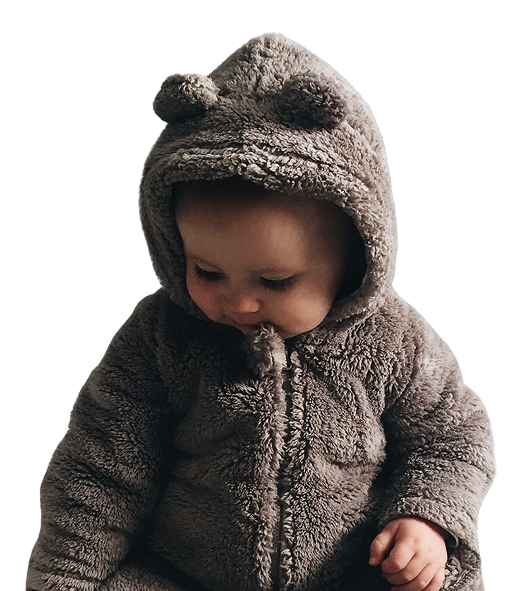
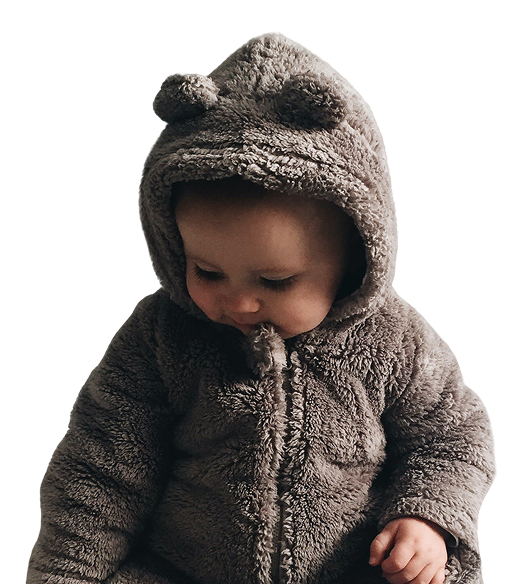
fix promotion

diff --git a/css/index.css b/css/index.css
@@ -1,1 +1,1 @@
-*,*::after,*::before{-webkit-box-sizing:border-box;box-sizing:border-box}body{overflow-x:hidden}a{text-decoration:none;-webkit-transition:.3s;transition:.3s}a:hover{opacity:80%}li{list-style:none}button{padding:0;background:none;border:none;cursor:pointer}img{max-width:100%}.section{margin-bottom:120px}.section__title{margin:0;font-family:"Balsamiq Sans",sans-serif;font-weight:400;font-size:16px;line-height:22px;color:#446B80;font-size:80px;line-height:88px}.container{max-width:1496px;width:100%;display:-webkit-box;display:-ms-flexbox;display:flex;margin:0 auto;padding:0 20px}.button{background-color:#7FC9F0;border:none;border-radius:12px;display:-webkit-box;display:-ms-flexbox;display:flex;-webkit-box-align:center;-ms-flex-align:center;align-items:center;-webkit-box-pack:center;-ms-flex-pack:center;justify-content:center;padding:0;font-family:"Montserrat",sans-serif;font-optical-sizing:auto;font-style:normal;font-weight:400;line-height:100%;font-size:18px;color:#fff;letter-spacing:.05em;line-height:24px;cursor:pointer;outline:none;-webkit-transition:.3s;transition:.3s}.button:hover{opacity:90%}.header{padding-top:17px;width:100%;background-color:rgba(236,199,193,0.16)}.header__top{width:100%;border-bottom:1px solid rgba(34,53,64,0.08)}.header-top{width:100%;display:-webkit-box;display:-ms-flexbox;display:flex;-webkit-box-align:center;-ms-flex-align:center;align-items:center;padding-bottom:15px;position:relative}.header-bottom{width:100%;padding:16px 0;display:-webkit-box;display:-ms-flexbox;display:flex;-webkit-box-pack:justify;-ms-flex-pack:justify;justify-content:space-between;-webkit-box-align:center;-ms-flex-align:center;align-items:center}.header__logo{margin-right:44px}.header__link{font-family:"Montserrat",sans-serif;font-optical-sizing:auto;font-style:normal;font-weight:400;line-height:100%;font-size:18px;color:#446B80;letter-spacing:.05em;line-height:24px;display:-webkit-box;display:-ms-flexbox;display:flex;-webkit-box-align:center;-ms-flex-align:center;align-items:center}.header__link::before{content:"";display:inline-block;width:24px;height:24px;background-repeat:no-repeat;background-size:cover;margin-right:12px}.header__catalog-btn{margin-right:24px}.header__autorization-link{margin-right:80px;margin-left:auto}.catalog-btn{width:223px;height:48px;gap:11px}.catalog-btn_open::after{content:"";display:inline-block;width:24px;height:24px;background-image:url(../images/catalog-btn_open.svg);background-repeat:no-repeat;background-size:cover}.catalog-btn_close{background-color:#446B80}.catalog-btn_close::after{content:"";display:inline-block;width:24px;height:24px;background-image:url(../images/catalog-btn_close.svg);translate:.3s;background-repeat:no-repeat;background-size:cover}.catalog-btn_close:hover::after{-webkit-transform:rotate(45deg);transform:rotate(45deg)}.catalog-btn-bottom{display:-webkit-box;display:-ms-flexbox;display:flex}.search{display:-webkit-box;display:-ms-flexbox;display:flex;height:48px;max-width:470px;width:100%}.search input{border:none;outline:none;background-color:rgba(34,53,64,0);-webkit-box-flex:1;-ms-flex-positive:1;flex-grow:1;padding:0 24px 0 0;font-family:"Montserrat",sans-serif;font-optical-sizing:auto;font-style:normal;font-weight:400;line-height:100%;font-size:18px;color:#446B80;letter-spacing:.05em}.search input::-webkit-input-placeholder{font-family:"Montserrat",sans-serif;font-optical-sizing:auto;font-style:normal;font-weight:400;line-height:100%;font-size:18px;color:#446B80;letter-spacing:.05em;line-height:24px;opacity:64%}.search input:-ms-input-placeholder{font-family:"Montserrat",sans-serif;font-optical-sizing:auto;font-style:normal;font-weight:400;line-height:100%;font-size:18px;color:#446B80;letter-spacing:.05em;line-height:24px;opacity:64%}.search input::-ms-input-placeholder{font-family:"Montserrat",sans-serif;font-optical-sizing:auto;font-style:normal;font-weight:400;line-height:100%;font-size:18px;color:#446B80;letter-spacing:.05em;line-height:24px;opacity:64%}.search input::placeholder{font-family:"Montserrat",sans-serif;font-optical-sizing:auto;font-style:normal;font-weight:400;line-height:100%;font-size:18px;color:#446B80;letter-spacing:.05em;line-height:24px;opacity:64%}.search__input{display:-webkit-box;display:-ms-flexbox;display:flex;-webkit-box-align:center;-ms-flex-align:center;align-items:center;border-radius:12px;border-top-right-radius:0;border-bottom-right-radius:0;-webkit-box-flex:1;-ms-flex-positive:1;flex-grow:1;background-color:rgba(34,53,64,0.04)}.search__img{width:24px;height:24px;margin:0 24px}.search__btn{border-top-left-radius:0;border-bottom-left-radius:0;width:108px}.autorization-link::before{background-image:url(../images/autorization-link.svg)}.basket-link::before{background-image:url(../images/basket.svg)}.title{font-family:"Balsamiq Sans",sans-serif;font-weight:400;font-size:16px;line-height:22px;color:#446B80;letter-spacing:.02em;max-width:164px}.nav__list{display:-webkit-box;display:-ms-flexbox;display:flex;gap:40px}.nav__link{font-family:"Montserrat",sans-serif;font-optical-sizing:auto;font-style:normal;font-weight:400;line-height:100%;font-size:18px;color:#446B80;letter-spacing:.05em}.location{font-family:"Montserrat",sans-serif;font-optical-sizing:auto;font-style:normal;font-weight:400;line-height:100%;font-size:18px;color:#446B80;letter-spacing:.05em;display:-webkit-box;display:-ms-flexbox;display:flex;-webkit-box-align:center;-ms-flex-align:center;align-items:center;line-height:24px}.location::before{content:"";display:inline-block;width:24px;height:24px;margin-right:12px;background-image:url(../images/map-pin.svg)}.location__link{font-family:"Montserrat",sans-serif;font-optical-sizing:auto;font-style:normal;font-weight:400;line-height:18px;font-size:18px;color:#7FC9F0}.cover{display:-webkit-box;display:-ms-flexbox;display:flex;width:100%;background-color:rgba(236,199,193,0.16);padding-bottom:65px}.cover__content{margin-right:56px}.cover__title{margin:114px 0 32px 0;max-width:650px}.cover__text{font-family:"Montserrat",sans-serif;font-optical-sizing:auto;font-style:normal;font-weight:400;line-height:100%;font-size:18px;color:#446B80;letter-spacing:.05em;font-size:24px;margin-bottom:48px;max-width:442px}.cover__button{width:140px;height:48px}.cover__img{max-width:646px;position:relative;margin-top:30px}.cover__img-container{position:relative}.cover__img-container::before{content:"";display:block;width:1074px;height:735px;background-image:url(../images/cover-bg.svg);background-size:cover;background-repeat:no-repeat;position:absolute;left:-230px}.promo-cards{display:-webkit-box;display:-ms-flexbox;display:flex;gap:24px;-ms-flex-wrap:wrap;flex-wrap:wrap;margin:0 auto}.link-buy{font-family:"Montserrat",sans-serif;font-optical-sizing:auto;font-style:normal;font-weight:400;line-height:18px;font-size:18px;color:#7FC9F0}.promo__card{display:-webkit-box;display:-ms-flexbox;display:flex;height:360px;width:716px;padding:28px;border-radius:12px;-webkit-box-shadow:0px 0px 40px 0px rgba(0,0,0,0.04);box-shadow:0px 0px 40px 0px rgba(0,0,0,0.04);position:relative}.promo__title{max-width:264px;margin-bottom:24px;font-family:"Balsamiq Sans",sans-serif;font-weight:400;font-size:16px;line-height:22px;color:#446B80;font-size:18px;line-height:28px}.promo__buttons{margin-top:48px;display:-webkit-box;display:-ms-flexbox;display:flex;gap:24px;-webkit-box-align:center;-ms-flex-align:center;align-items:center}.promo__buy{font-family:"Montserrat",sans-serif;font-optical-sizing:auto;font-style:normal;font-weight:400;line-height:100%;font-size:18px;color:#446B80;letter-spacing:.05em}.promo__img{max-width:290px;max-height:290px}.price{font-family:"Montserrat",sans-serif;font-optical-sizing:auto;font-style:normal;font-weight:400;line-height:18px;font-size:18px;color:#7FC9F0;font-size:24px;line-height:32px;font-weight:600}.price::after{content:"";display:inline-block;width:11px;height:18px;margin-left:8px;background-image:url(../images/price.svg);background-size:cover;background-repeat:no-repeat}.basket-btn{width:146px;height:48px}.like-btn{height:24px;width:24px;-webkit-transition:.3s;transition:.3s;background-image:url(../images/heart.svg);position:absolute;top:24px;right:24px}.like-btn:hover{opacity:70%}.pop-categories__container{display:-webkit-box;display:-ms-flexbox;display:flex;-webkit-box-orient:vertical;-webkit-box-direction:normal;-ms-flex-direction:column;flex-direction:column}.pop-categories__title{display:block;width:100%;text-align:center;margin-bottom:64px}.pop-categories__cards{display:-webkit-box;display:-ms-flexbox;display:flex;width:100%;gap:20px;-ms-flex-wrap:wrap;flex-wrap:wrap}.pop-categories__card{width:470px;height:360px;padding:48px 64px;display:-webkit-box;display:-ms-flexbox;display:flex;-webkit-box-shadow:0px 0px 40px 0px rgba(0,0,0,0.04);box-shadow:0px 0px 40px 0px rgba(0,0,0,0.04);border-radius:12px;owerflow:hidden}.pop-categories__card:nth-child(1n){background-color:#f3dbd7}.pop-categories__card:nth-child(2n){background-color:#FDF6EF}.pop-categories__card:nth-child(3n){background-color:#e5f4fc}.pop-categories__card:nth-child(4n){background-color:rgba(68,107,128,0.2)}.pop-categories__card-info{display:-webkit-box;display:-ms-flexbox;display:flex;-webkit-box-orient:vertical;-webkit-box-direction:normal;-ms-flex-direction:column;flex-direction:column}.pop-categories__card-title{display:inline-block;max-width:150px;font-family:"Montserrat",sans-serif;font-optical-sizing:auto;font-style:normal;font-weight:400;line-height:100%;font-size:18px;color:#446B80;letter-spacing:.05em;font-size:24px;line-height:32px;font-weight:700;margin-bottom:16px}.pop-categories__card-descr{max-width:130px;font-family:"Montserrat",sans-serif;font-optical-sizing:auto;font-style:normal;font-weight:400;line-height:100%;font-size:18px;color:#446B80;letter-spacing:.05em;-webkit-box-flex:1;-ms-flex-positive:1;flex-grow:1}.pop-categories__link-see{display:-webkit-box;display:-ms-flexbox;display:flex;-webkit-box-align:center;-ms-flex-align:center;align-items:center;-webkit-box-pack:center;-ms-flex-pack:center;justify-content:center;font-family:"Montserrat",sans-serif;font-optical-sizing:auto;font-style:normal;font-weight:400;line-height:100%;font-size:18px;color:#446B80;letter-spacing:.05em;width:122px;height:48px;border:1px solid #446B80;border-radius:12px;background-color:rgba(68,107,128,0);color:#446B80}.pop-categories__card-img{max-width:300px;max-height:100%}.cards{display:-webkit-box;display:-ms-flexbox;display:flex;gap:24px}.card{display:-webkit-box;display:-ms-flexbox;display:flex;-webkit-box-orient:vertical;-webkit-box-direction:normal;-ms-flex-direction:column;flex-direction:column;-webkit-box-align:center;-ms-flex-align:center;align-items:center;width:346px;height:510px;padding:24px;position:relative;-webkit-box-shadow:0px 0px 40px 0px rgba(0,0,0,0.04);box-shadow:0px 0px 40px 0px rgba(0,0,0,0.04)}.card__img{max-width:274px;height:240px;margin-bottom:24px}.card__title{font-family:"Balsamiq Sans",sans-serif;font-weight:400;font-size:16px;line-height:22px;color:#446B80;font-size:18px;line-height:28px;margin-bottom:8px;max-width:234px;text-align:center}.card__price{margin-bottom:24px}.card__basket-btn{margin-bottom:16px}.arrows{display:-webkit-box;display:-ms-flexbox;display:flex;margin:40px auto 0 auto;gap:48px;width:-webkit-max-content;width:-moz-max-content;width:max-content}.arrow{width:48px;height:48px;background-size:cover;background-repeat:no-repeat;-webkit-transition:.3s;transition:.3s}.arrow:hover{opacity:90%}.arrow-left{background-image:url(../images/arrow-left.svg)}.arrow-right{background-image:url(../images/arrow-right.svg)}.promotion{margin-top:220px;-webkit-box-shadow:0px 0px 40px 0px rgba(0,0,0,0.08);box-shadow:0px 0px 40px 0px rgba(0,0,0,0.08);padding-bottom:87px}.promotion__title{margin:162px 0 48px 0;max-width:810px}.promotion__btn{width:230px;height:48px}.promotion__img-container{display:-webkit-box;display:-ms-flexbox;display:flex;position:relative;-webkit-box-flex:1;-ms-flex-positive:1;flex-grow:1}.promotion__img-container::before{content:"";height:620px;width:950px;background-image:url(../images/promotion-bg.svg);background-size:cover;background-repeat:no-repeat;position:absolute;bottom:-87px;left:-300px;z-index:-1}.promotion__img{position:absolute;bottom:-87px;left:0}.about__container{display:-webkit-box;display:-ms-flexbox;display:flex;-webkit-box-orient:vertical;-webkit-box-direction:normal;-ms-flex-direction:column;flex-direction:column;width:100%}.about__title{font-size:48px;line-height:58px;text-align:center;display:-webkit-box;display:-ms-flexbox;display:flex;max-width:966px;margin:0 auto;margin-bottom:64px}.about__list{display:-webkit-box;display:-ms-flexbox;display:flex;gap:24px;-ms-flex-wrap:wrap;flex-wrap:wrap;padding:0;margin:0}.about__item{display:-webkit-box;display:-ms-flexbox;display:flex;-webkit-box-orient:vertical;-webkit-box-direction:normal;-ms-flex-direction:column;flex-direction:column;width:346px;height:296px;padding:48px 23px 23px 23px;-webkit-box-align:center;-ms-flex-align:center;align-items:center;border:1px solid #7FC9F0;border-radius:12px}.about__item-num{display:-webkit-box;display:-ms-flexbox;display:flex;font-family:"Balsamiq Sans",sans-serif;-webkit-box-pack:center;-ms-flex-pack:center;justify-content:center;-webkit-box-align:center;-ms-flex-align:center;align-items:center;color:#fff;font-size:48px;width:80px;height:80px;background-size:cover;background-repeat:no-repeat;margin-bottom:32px}.about__item-num:nth-child(1n){background-image:url(../images/about-item-bg1.svg)}.about__item-num:nth-child(2n){background-image:url(../images/about-item-bg2.svg)}.about__item-num:nth-child(3n){background-image:url(../images/about-item-bg3.svg)}.about__item-num:nth-child(4n){background-image:url(../images/about-item-bg4.svg)}.about__text{font-family:"Montserrat",sans-serif;font-optical-sizing:auto;font-style:normal;font-weight:400;line-height:100%;font-size:18px;color:#446B80;letter-spacing:.05em;font-size:24px;text-align:center}
+*,*::after,*::before{-webkit-box-sizing:border-box;box-sizing:border-box}body{overflow-x:hidden}a{text-decoration:none;-webkit-transition:.3s;transition:.3s}a:hover{opacity:80%}li{list-style:none}button{padding:0;background:none;border:none;cursor:pointer}img{max-width:100%}.section{margin-bottom:120px}.section__title{margin:0;font-family:"Balsamiq Sans",sans-serif;font-weight:400;font-size:16px;line-height:22px;color:#446B80;font-size:80px;line-height:88px}.container{max-width:1496px;width:100%;display:-webkit-box;display:-ms-flexbox;display:flex;margin:0 auto;padding:0 20px}.button{background-color:#7FC9F0;border:none;border-radius:12px;display:-webkit-box;display:-ms-flexbox;display:flex;-webkit-box-align:center;-ms-flex-align:center;align-items:center;-webkit-box-pack:center;-ms-flex-pack:center;justify-content:center;padding:0;font-family:"Montserrat",sans-serif;font-optical-sizing:auto;font-style:normal;font-weight:400;line-height:100%;font-size:18px;color:#fff;letter-spacing:.05em;line-height:24px;cursor:pointer;outline:none;-webkit-transition:.3s;transition:.3s}.button:hover{opacity:90%}.header{padding-top:17px;width:100%;background-color:rgba(236,199,193,0.16)}.header__top{width:100%;border-bottom:1px solid rgba(34,53,64,0.08)}.header-top{width:100%;display:-webkit-box;display:-ms-flexbox;display:flex;-webkit-box-align:center;-ms-flex-align:center;align-items:center;padding-bottom:15px;position:relative}.header-bottom{width:100%;padding:16px 0;display:-webkit-box;display:-ms-flexbox;display:flex;-webkit-box-pack:justify;-ms-flex-pack:justify;justify-content:space-between;-webkit-box-align:center;-ms-flex-align:center;align-items:center}.header__logo{margin-right:44px}.header__link{font-family:"Montserrat",sans-serif;font-optical-sizing:auto;font-style:normal;font-weight:400;line-height:100%;font-size:18px;color:#446B80;letter-spacing:.05em;line-height:24px;display:-webkit-box;display:-ms-flexbox;display:flex;-webkit-box-align:center;-ms-flex-align:center;align-items:center}.header__link::before{content:"";display:inline-block;width:24px;height:24px;background-repeat:no-repeat;background-size:cover;margin-right:12px}.header__catalog-btn{margin-right:24px}.header__autorization-link{margin-right:80px;margin-left:auto}.catalog-btn{width:223px;height:48px;gap:11px}.catalog-btn_open::after{content:"";display:inline-block;width:24px;height:24px;background-image:url(../images/catalog-btn_open.svg);background-repeat:no-repeat;background-size:cover}.catalog-btn_close{background-color:#446B80}.catalog-btn_close::after{content:"";display:inline-block;width:24px;height:24px;background-image:url(../images/catalog-btn_close.svg);translate:.3s;background-repeat:no-repeat;background-size:cover}.catalog-btn_close:hover::after{-webkit-transform:rotate(45deg);transform:rotate(45deg)}.catalog-btn-bottom{display:-webkit-box;display:-ms-flexbox;display:flex}.search{display:-webkit-box;display:-ms-flexbox;display:flex;height:48px;max-width:470px;width:100%}.search input{border:none;outline:none;background-color:rgba(34,53,64,0);-webkit-box-flex:1;-ms-flex-positive:1;flex-grow:1;padding:0 24px 0 0;font-family:"Montserrat",sans-serif;font-optical-sizing:auto;font-style:normal;font-weight:400;line-height:100%;font-size:18px;color:#446B80;letter-spacing:.05em}.search input::-webkit-input-placeholder{font-family:"Montserrat",sans-serif;font-optical-sizing:auto;font-style:normal;font-weight:400;line-height:100%;font-size:18px;color:#446B80;letter-spacing:.05em;line-height:24px;opacity:64%}.search input:-ms-input-placeholder{font-family:"Montserrat",sans-serif;font-optical-sizing:auto;font-style:normal;font-weight:400;line-height:100%;font-size:18px;color:#446B80;letter-spacing:.05em;line-height:24px;opacity:64%}.search input::-ms-input-placeholder{font-family:"Montserrat",sans-serif;font-optical-sizing:auto;font-style:normal;font-weight:400;line-height:100%;font-size:18px;color:#446B80;letter-spacing:.05em;line-height:24px;opacity:64%}.search input::placeholder{font-family:"Montserrat",sans-serif;font-optical-sizing:auto;font-style:normal;font-weight:400;line-height:100%;font-size:18px;color:#446B80;letter-spacing:.05em;line-height:24px;opacity:64%}.search__input{display:-webkit-box;display:-ms-flexbox;display:flex;-webkit-box-align:center;-ms-flex-align:center;align-items:center;border-radius:12px;border-top-right-radius:0;border-bottom-right-radius:0;-webkit-box-flex:1;-ms-flex-positive:1;flex-grow:1;background-color:rgba(34,53,64,0.04)}.search__img{width:24px;height:24px;margin:0 24px}.search__btn{border-top-left-radius:0;border-bottom-left-radius:0;width:108px}.autorization-link::before{background-image:url(../images/autorization-link.svg)}.basket-link::before{background-image:url(../images/basket.svg)}.title{font-family:"Balsamiq Sans",sans-serif;font-weight:400;font-size:16px;line-height:22px;color:#446B80;letter-spacing:.02em;max-width:164px}.nav__list{display:-webkit-box;display:-ms-flexbox;display:flex;gap:40px}.nav__link{font-family:"Montserrat",sans-serif;font-optical-sizing:auto;font-style:normal;font-weight:400;line-height:100%;font-size:18px;color:#446B80;letter-spacing:.05em}.location{font-family:"Montserrat",sans-serif;font-optical-sizing:auto;font-style:normal;font-weight:400;line-height:100%;font-size:18px;color:#446B80;letter-spacing:.05em;display:-webkit-box;display:-ms-flexbox;display:flex;-webkit-box-align:center;-ms-flex-align:center;align-items:center;line-height:24px}.location::before{content:"";display:inline-block;width:24px;height:24px;margin-right:12px;background-image:url(../images/map-pin.svg)}.location__link{font-family:"Montserrat",sans-serif;font-optical-sizing:auto;font-style:normal;font-weight:400;line-height:18px;font-size:18px;color:#7FC9F0}.cover{display:-webkit-box;display:-ms-flexbox;display:flex;width:100%;background-color:rgba(236,199,193,0.16);padding-bottom:65px}.cover__content{margin-right:56px}.cover__title{margin:114px 0 32px 0;max-width:650px}.cover__text{font-family:"Montserrat",sans-serif;font-optical-sizing:auto;font-style:normal;font-weight:400;line-height:100%;font-size:18px;color:#446B80;letter-spacing:.05em;font-size:24px;margin-bottom:48px;max-width:442px}.cover__button{width:140px;height:48px}.cover__img{max-width:646px;position:relative;margin-top:30px}.cover__img-container{position:relative}.cover__img-container::before{content:"";display:block;width:1074px;height:735px;background-image:url(../images/cover-bg.svg);background-size:cover;background-repeat:no-repeat;position:absolute;left:-230px}.promo-cards{display:-webkit-box;display:-ms-flexbox;display:flex;gap:24px;-ms-flex-wrap:wrap;flex-wrap:wrap;margin:0 auto}.link-buy{font-family:"Montserrat",sans-serif;font-optical-sizing:auto;font-style:normal;font-weight:400;line-height:18px;font-size:18px;color:#7FC9F0}.promo__card{display:-webkit-box;display:-ms-flexbox;display:flex;height:360px;width:716px;padding:28px;border-radius:12px;-webkit-box-shadow:0px 0px 40px 0px rgba(0,0,0,0.04);box-shadow:0px 0px 40px 0px rgba(0,0,0,0.04);position:relative}.promo__title{max-width:264px;margin-bottom:24px;font-family:"Balsamiq Sans",sans-serif;font-weight:400;font-size:16px;line-height:22px;color:#446B80;font-size:18px;line-height:28px}.promo__buttons{margin-top:48px;display:-webkit-box;display:-ms-flexbox;display:flex;gap:24px;-webkit-box-align:center;-ms-flex-align:center;align-items:center}.promo__buy{font-family:"Montserrat",sans-serif;font-optical-sizing:auto;font-style:normal;font-weight:400;line-height:100%;font-size:18px;color:#446B80;letter-spacing:.05em}.promo__img{max-width:290px;max-height:290px}.price{font-family:"Montserrat",sans-serif;font-optical-sizing:auto;font-style:normal;font-weight:400;line-height:18px;font-size:18px;color:#7FC9F0;font-size:24px;line-height:32px;font-weight:600}.price::after{content:"";display:inline-block;width:11px;height:18px;margin-left:8px;background-image:url(../images/price.svg);background-size:cover;background-repeat:no-repeat}.basket-btn{width:146px;height:48px}.like-btn{height:24px;width:24px;-webkit-transition:.3s;transition:.3s;background-image:url(../images/heart.svg);position:absolute;top:24px;right:24px}.like-btn:hover{opacity:70%}.pop-categories__container{display:-webkit-box;display:-ms-flexbox;display:flex;-webkit-box-orient:vertical;-webkit-box-direction:normal;-ms-flex-direction:column;flex-direction:column}.pop-categories__title{display:block;width:100%;text-align:center;margin-bottom:64px}.pop-categories__cards{display:-webkit-box;display:-ms-flexbox;display:flex;width:100%;gap:20px;-ms-flex-wrap:wrap;flex-wrap:wrap}.pop-categories__card{width:470px;height:360px;padding:48px 64px;display:-webkit-box;display:-ms-flexbox;display:flex;-webkit-box-shadow:0px 0px 40px 0px rgba(0,0,0,0.04);box-shadow:0px 0px 40px 0px rgba(0,0,0,0.04);border-radius:12px;owerflow:hidden}.pop-categories__card:nth-child(1n){background-color:#f3dbd7}.pop-categories__card:nth-child(2n){background-color:#FDF6EF}.pop-categories__card:nth-child(3n){background-color:#e5f4fc}.pop-categories__card:nth-child(4n){background-color:rgba(68,107,128,0.2)}.pop-categories__card-info{display:-webkit-box;display:-ms-flexbox;display:flex;-webkit-box-orient:vertical;-webkit-box-direction:normal;-ms-flex-direction:column;flex-direction:column}.pop-categories__card-title{display:inline-block;max-width:150px;font-family:"Montserrat",sans-serif;font-optical-sizing:auto;font-style:normal;font-weight:400;line-height:100%;font-size:18px;color:#446B80;letter-spacing:.05em;font-size:24px;line-height:32px;font-weight:700;margin-bottom:16px}.pop-categories__card-descr{max-width:130px;font-family:"Montserrat",sans-serif;font-optical-sizing:auto;font-style:normal;font-weight:400;line-height:100%;font-size:18px;color:#446B80;letter-spacing:.05em;-webkit-box-flex:1;-ms-flex-positive:1;flex-grow:1}.pop-categories__link-see{display:-webkit-box;display:-ms-flexbox;display:flex;-webkit-box-align:center;-ms-flex-align:center;align-items:center;-webkit-box-pack:center;-ms-flex-pack:center;justify-content:center;font-family:"Montserrat",sans-serif;font-optical-sizing:auto;font-style:normal;font-weight:400;line-height:100%;font-size:18px;color:#446B80;letter-spacing:.05em;width:122px;height:48px;border:1px solid #446B80;border-radius:12px;background-color:rgba(68,107,128,0);color:#446B80}.pop-categories__card-img{max-width:300px;max-height:100%}.cards{display:-webkit-box;display:-ms-flexbox;display:flex;gap:24px}.card{display:-webkit-box;display:-ms-flexbox;display:flex;-webkit-box-orient:vertical;-webkit-box-direction:normal;-ms-flex-direction:column;flex-direction:column;-webkit-box-align:center;-ms-flex-align:center;align-items:center;width:346px;height:510px;padding:24px;position:relative;-webkit-box-shadow:0px 0px 40px 0px rgba(0,0,0,0.04);box-shadow:0px 0px 40px 0px rgba(0,0,0,0.04)}.card__img{max-width:274px;height:240px;margin-bottom:24px}.card__title{font-family:"Balsamiq Sans",sans-serif;font-weight:400;font-size:16px;line-height:22px;color:#446B80;font-size:18px;line-height:28px;margin-bottom:8px;max-width:234px;text-align:center}.card__price{margin-bottom:24px}.card__basket-btn{margin-bottom:16px}.arrows{display:-webkit-box;display:-ms-flexbox;display:flex;margin:40px auto 0 auto;gap:48px;width:-webkit-max-content;width:-moz-max-content;width:max-content}.arrow{width:48px;height:48px;background-size:cover;background-repeat:no-repeat;-webkit-transition:.3s;transition:.3s}.arrow:hover{opacity:90%}.arrow-left{background-image:url(../images/arrow-left.svg)}.arrow-right{background-image:url(../images/arrow-right.svg)}.promotion{position:relative}.promotion::after{content:"";display:block;width:100%;height:calc(100% - 100px);-webkit-box-shadow:0px 0px 40px 0px rgba(0,0,0,0.08);box-shadow:0px 0px 40px 0px rgba(0,0,0,0.08);position:absolute;left:0;top:100px;z-index:-2}.promotion__title{margin:262px 0 48px 0;max-width:810px}.promotion__btn{width:230px;height:48px}.promotion__img-container{display:-webkit-box;display:-ms-flexbox;display:flex;position:relative;-webkit-box-flex:1;-ms-flex-positive:1;flex-grow:1}.promotion__img-container::before{content:"";height:620px;width:950px;background-image:url(../images/promotion-bg.svg);background-size:cover;background-repeat:no-repeat;position:absolute;bottom:0;left:-300px;z-index:-1}.promotion__img{margin-top:40px}.about__container{display:-webkit-box;display:-ms-flexbox;display:flex;-webkit-box-orient:vertical;-webkit-box-direction:normal;-ms-flex-direction:column;flex-direction:column;width:100%}.about__title{font-size:48px;line-height:58px;text-align:center;display:-webkit-box;display:-ms-flexbox;display:flex;max-width:966px;margin:0 auto;margin-bottom:64px}.about__list{display:-webkit-box;display:-ms-flexbox;display:flex;gap:24px;-ms-flex-wrap:wrap;flex-wrap:wrap;padding:0;margin:0}.about__item{display:-webkit-box;display:-ms-flexbox;display:flex;-webkit-box-orient:vertical;-webkit-box-direction:normal;-ms-flex-direction:column;flex-direction:column;width:346px;height:296px;padding:48px 23px 23px 23px;-webkit-box-align:center;-ms-flex-align:center;align-items:center;border:1px solid #7FC9F0;border-radius:12px}.about__item-num{display:-webkit-box;display:-ms-flexbox;display:flex;font-family:"Balsamiq Sans",sans-serif;-webkit-box-pack:center;-ms-flex-pack:center;justify-content:center;-webkit-box-align:center;-ms-flex-align:center;align-items:center;color:#fff;font-size:48px;width:80px;height:80px;background-size:cover;background-repeat:no-repeat;margin-bottom:32px}.about__item-num:nth-child(1n){background-image:url(../images/about-item-bg1.svg)}.about__item-num:nth-child(2n){background-image:url(../images/about-item-bg2.svg)}.about__item-num:nth-child(3n){background-image:url(../images/about-item-bg3.svg)}.about__item-num:nth-child(4n){background-image:url(../images/about-item-bg4.svg)}.about__text{font-family:"Montserrat",sans-serif;font-optical-sizing:auto;font-style:normal;font-weight:400;line-height:100%;font-size:18px;color:#446B80;letter-spacing:.05em;font-size:24px;text-align:center}

diff --git a/css/index.sass b/css/index.sass
@@ -465,12 +465,20 @@ img
     background-image: url(../images/arrow-right.svg)
 
 .promotion
-  margin-top: 220px
-  box-shadow: 0px 0px 40px 0px rgba(0, 0, 0, 0.08)
-  padding-bottom: 87px
+  position: relative
+  &::after
+    content: ''
+    display: block
+    width: 100%
+    height: calc(100% - 100px)
+    box-shadow: 0px 0px 40px 0px rgba(0, 0, 0, 0.08)
+    position: absolute
+    left: 0
+    top: 100px
+    z-index: -2
   &__info
   &__title
-    margin: 162px 0 48px 0
+    margin: 262px 0 48px 0
     max-width: 810px
   &__btn
     width: 230px
@@ -487,13 +495,11 @@ img
       background-size: cover
       background-repeat: no-repeat
       position: absolute
-      bottom: -87px
+      bottom: 0
       left: -300px
       z-index: -1
   &__img
-    position: absolute
-    bottom: -87px
-    left: 0
+    margin-top: 40px
 
 .about
   &__container
